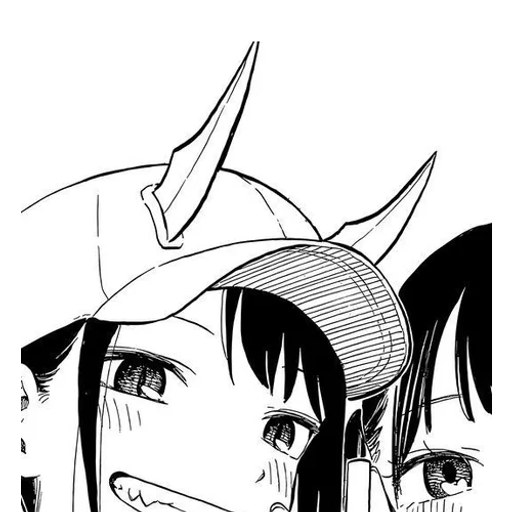
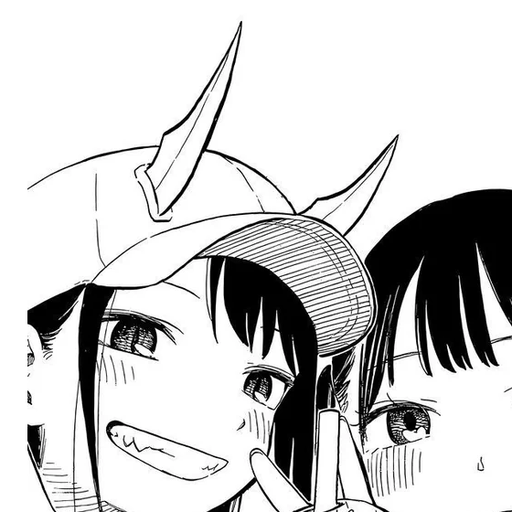
fix(chrome): peeking titlebar mark, ghost play button, looser hero crops
The titlebar logo is now Ruri peeking over the header's bottom border —
a transparent horns-and-head crop of the original face art (flood-fill
from the borders makes only the outside white transparent, so her face
stays solid over the halftone), inverted in dark mode. The music play
button loses its outline and matches its ghost siblings. Hero crops
regenerated with a generalized baker whose framing boxes can overflow
the source (padded per side), loosening the too-tight ruri5 promo crop
(safe region now also excludes the ONE SHOT badge) and ruri2.

Claude-Session: https://claude.ai/code/session_01Dysz7nYpJujWrpKQmpbSzn

diff --git a/web/src/styles.css b/web/src/styles.css
@@ -248,6 +248,7 @@ textarea::placeholder {
 }
 
 .sidebar-header {
+  position: relative; /* the logo peek anchors to this box's bottom */
   display: flex;
   align-items: center;
   justify-content: space-between;
@@ -263,13 +264,22 @@ textarea::placeholder {
   gap: 9px;
 }
 
-.logo-face {
-  width: 26px;
-  height: 26px;
-  border-radius: 6px;
-  border: 1.5px solid var(--edge);
-  background: #fff;
-  object-fit: cover;
+/* Ruri peeking over the header's bottom edge: a transparent horns+head
+   crop. The slot holds her place in the row; the image itself anchors to
+   the header's bottom so the crop's cut lands exactly on the border. */
+.logo-peek-slot {
+  width: 38px;
+}
+
+.logo-peek {
+  position: absolute;
+  bottom: 0;
+  height: 34px;
+  width: auto;
+}
+
+[data-theme="dark"] .logo-peek {
+  filter: invert(1); /* ink and paper swap with the theme */
 }
 
 .logo-name {
@@ -741,10 +751,6 @@ textarea::placeholder {
 .player-controls .icon-button.active {
   color: var(--paper);
   background: var(--ink);
-}
-
-.player-play {
-  border: 1.5px solid var(--edge);
 }
 
 .player-volume {

diff --git a/web/src/components/Player.tsx b/web/src/components/Player.tsx
@@ -194,7 +194,7 @@ export function Player() {
                 <button className="icon-button" title="Previous" onClick={() => engine().prev()}>
                   <CtlIcon d="M19 20L9 12l10-8v16zM5 19V5" />
                 </button>
-                <button className="icon-button player-play" title={state.playing ? "Pause" : "Play"} onClick={togglePlay}>
+                <button className="icon-button" title={state.playing ? "Pause" : "Play"} onClick={togglePlay}>
                   {state.playing ? (
                     <CtlIcon d="M10 4H6v16h4V4zM18 4h-4v16h4V4z" filled />
                   ) : (

diff --git a/web/src/components/Sidebar.tsx b/web/src/components/Sidebar.tsx
@@ -186,7 +186,9 @@ export function Sidebar() {
     <aside className="sidebar">
       <div className="sidebar-header">
         <span className="logo">
-          <img className="logo-face" src="/ruri-face.png" alt="" />
+          <span className="logo-peek-slot">
+            <img className="logo-peek" src="/ruri-peek.png" alt="" />
+          </span>
           <span className="logo-name">ruri</span>
         </span>
         <span className="sidebar-header-right">
